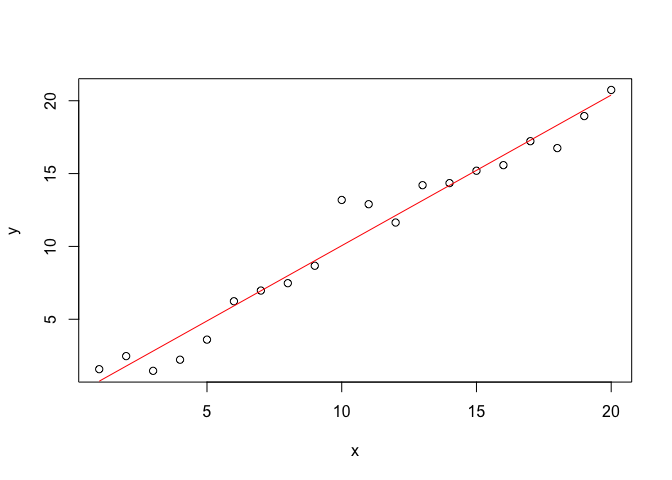
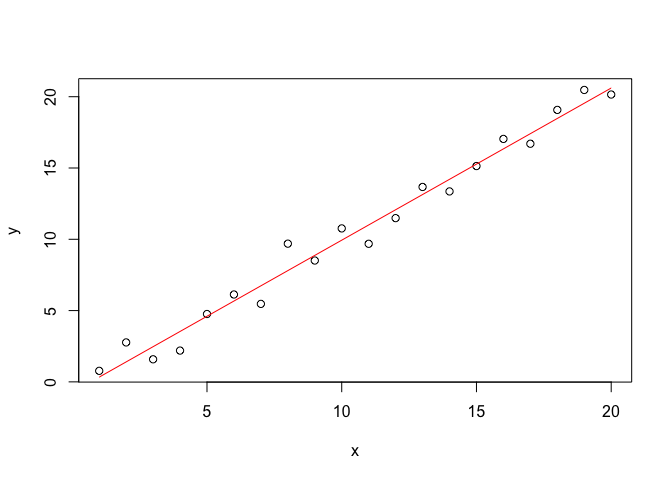
Correct typos

diff --git a/part_01-basic_interactions.md b/part_01-basic_interactions.md
@@ -29,8 +29,8 @@ execute them by yourself. Beware that R is a case-sensitive language; so
 `A` and `a` are different symbols.
 
 For the sake of reproducibility, some chunks are directly followed by
-the output you should obtain on your machine. In this case, the lines
-are prefixed with a ‘\#\#’ mark.
+the output that you should obtain on your machine. In this case, the
+lines are prefixed with a ‘\#\#’ mark.
 
 > In R, the ‘\#’ sign serves as comment character and can appear nearly
 > anywhere in the code. Anything typed behind this sign will be
@@ -43,9 +43,9 @@ your keyboard. In RStudio, you can access your command history in the
 
 ## A Sample Session
 
-If you like, you can run the following chunk that will demonstrate one
-simple application of R: Fitting a linear regression model to some noisy
-data.
+To break the ice, you can run the following chunk that will demonstrate
+one simple application of R: Fitting a linear regression model to some
+noisy data.
 
 ``` r
 # create a “list” of values from 1 to 20
@@ -74,18 +74,18 @@ summary(r)
     ## 
     ## Residuals:
     ##      Min       1Q   Median       3Q      Max 
-    ## -1.62784 -0.55062 -0.04571  0.43422  3.13560 
+    ## -1.33987 -0.74106  0.01089  0.62442  1.89050 
     ## 
     ## Coefficients:
     ##             Estimate Std. Error t value Pr(>|t|)    
-    ## (Intercept) -0.28409    0.55261  -0.514    0.613    
-    ## x            1.03371    0.04613  22.408 1.34e-14 ***
+    ## (Intercept) -0.73455    0.44330  -1.657    0.115    
+    ## x            1.06717    0.03701  28.837   <2e-16 ***
     ## ---
     ## Signif. codes:  0 '***' 0.001 '**' 0.01 '*' 0.05 '.' 0.1 ' ' 1
     ## 
-    ## Residual standard error: 1.19 on 18 degrees of freedom
-    ## Multiple R-squared:  0.9654, Adjusted R-squared:  0.9635 
-    ## F-statistic: 502.1 on 1 and 18 DF,  p-value: 1.342e-14
+    ## Residual standard error: 0.9543 on 18 degrees of freedom
+    ## Multiple R-squared:  0.9788, Adjusted R-squared:  0.9776 
+    ## F-statistic: 831.6 on 1 and 18 DF,  p-value: < 2.2e-16
 
 ``` r
 # clean up
@@ -121,13 +121,13 @@ y <- 2 # RHS is assigned to LHS
 
 When expressions are typed, R will evaluate them and print the result
 (unless specifically made invisible). The result of an expression is
-however ‘lost’. Assignments on the other hand do not print to the
-console, but store the result to the current R environment (‘Global
-Environment’).
+however ‘lost’ for further usage. Assignments on the other hand do not
+print to the console, but either store the result in the current
+environment or modify an existing object.
 
 ### Expressions
 
-Although, expressions are not limited to mathematical expressions in a
+Although expressions are not limited to mathematical expressions in a
 colloquial sense, R comes with a lot of operators and functions to do
 anything from boolean to matrix algebra, over statistics and modelling.
 Thus, R can be used as a very fancy calculator.
@@ -154,9 +154,9 @@ Some of the arithmetic operators implemented in R include:
 (-8)^(1/3)
 ```
 
-There are many (a lot of\!) built-in functions for other mathemtatical
-operations including `abs(...)`, `floor(...)`, `round(...)`,
-`sqrt(...)`, `exp(...)`, `log(...)`, `sin(...)`, `cos(...)`, etc.
+Some of the built-in functions for other mathemtatical operations
+include `abs(...)`, `floor(...)`, `round(...)`, `sqrt(...)`, `exp(...)`,
+`log(...)`, `sin(...)`, `cos(...)`, etc.
 
 R follows the standard order of operations and groupings based on
 parentheses.
@@ -168,12 +168,11 @@ parentheses.
 
 ### Using a Pipe
 
-Within the `tidyverse` (or `magrittr`), there is also another way to
-specify the order in which expressions are evaluated. Namely, by
-*piping* the different operations in the very order they must be
-executed by R. The ‘pipe’ is designated by the `%>%` operator. This
-operator is so useful that it has its own key-binding in RStudio, which
-is Ctrl/Cmd + Shift + M.
+There is also another way to specify the order in which expressions are
+evaluated. Namely, by *piping* the different operations in the very
+order they must be executed by R. The ‘pipe’ is designated by the `%>%`
+operator. This operator is so useful that it has its own key-binding in
+RStudio, which is Ctrl/Cmd + Shift + M.
 
 We can obtain the same result as above with
 
@@ -221,8 +220,8 @@ except that
 > currently known objects and functions that start with the characters
 > you just typed, when you hit the ‘tab’ key.
 
-Although there is no restriction in the length of object names, in
-practice, you want your object names to be explicit and not too long.
+Although there is no restriction in length for object names, in
+practice, you want your names to be explicit and not too long.
 
 ``` r
 N_Avogrado = 6.022e23 # we cannot use NA as name!
@@ -259,9 +258,9 @@ ls()
 
 If a sequence of operations has to be repeatedly performed, it can be
 very effective to evoke this sequence of operations using a single
-command: A named function. By making its return value dependend on the
-arguments the function is called with, your code will gain enormously in
-power, convenience and elegance.
+command: A function. If you make the return value of the function
+dependend on the arguments that the function was called with, your code
+will gain enormously in power, convenience and elegance.
 
 A function is created with `function(...) {...}`. As every R object,
 functions can be assigned to a symbol for future reference. The
@@ -374,7 +373,8 @@ To install, e.g. the `magrittr` package from CRAN.
 install.packages("magrittr")
 ```
 
-To uninstall a package, use `remove.packages(...)`.
+To uninstall a package, use `remove.packages(...)`. You will rarely need
+this.
 
 To load a package into R’s memory, use
 
@@ -383,16 +383,20 @@ library("magrittr")
 ```
 
 All of the package’s function will now be known in the current R
-session. Their namespace has been attached to the search path of the
-current environment. To check the currently loaded namespaces, type
-`loadedNamespaces()`. To remove a namespace from the current session,
-type `unloadNamespace(...)` with the respective package name.
+session. More specifically, their ‘namespace’ has been attached to the
+search path of the current environment. To check the currently loaded
+namespaces, type `loadedNamespaces()`. To remove a namespace from the
+current session, type `unloadNamespace(...)` with the respective package
+name.
 
 If you intend to use only a single function from a package (and do not
-want to load the entire namespace), or if there are multiple functions
-with the same name from different packages in the current namespace, you
-must be more explicit and prefix the function call with the package name
-separated by `::`, e.g. `magrittr::divide_by(...)`.
+want to load the entire namespace), or if there are functions with the
+same name from different packages loaded, you must be more explicit and
+prefix the function call with the package name separated by `::`, e.g.
+`magrittr::divide_by(...)`.
+
+> When you load a package with conflicting names, R will print a warning
+> message.
 
 ### Getting Help on Functions and Other Objects
 
@@ -415,12 +419,12 @@ mol_to_abs
     ##   mol * 6.022e23 * prefix_meaning[[prefix]]
     ##   
     ## }
-    ## <bytecode: 0x7fd5d8eed6b8>
+    ## <bytecode: 0x7f981688d598>
 
-As this code can be sometimes rather enigmatic, each function comes with
-an extensive built-in documentation within R.
-
------
+Most R functions are written in R and therefore no different from
+user-defined functions. Sometimes however, just reading this code can be
+rather enigmatic. Therefore, each function comes with an extensive
+built-in documentation within R. Here is how you get there.
 
 *If you know the command’s name,* the following approach will open the
 appropriate documentation. As an example, examine the help for the
@@ -436,7 +440,7 @@ Typically, the help page includes the following sections:
 
   - *Description*, a brief summary,
   - *Usage*, showing all arguments (variables and parameters) along with
-    their default values, where `...` represents any abitrary number of
+    their default values, where `...` represents any arbitrary number of
     comma-separated (unquoted) arguments,
   - *Arguments*, explicitly describing each argument and the data type
     expected,
@@ -446,10 +450,8 @@ Typically, the help page includes the following sections:
   - *References* for the algorithms implemented,
   - *See Also*, listing similar functions for different data types, or
     shortcuts for commonly used operations,
-  - *Examples* with illustrative code that helps better understanding
-    the functions behavior.
-
------
+  - *Examples* with illustrative code that helps the better
+    understanding the functions behavior.
 
 *If you do not know the exact name of the function you are looking for,*
 but you know what the function *should* be able to do for you, the
@@ -474,7 +476,7 @@ In this section you should have learned
 
 Quick questions.
 
-1.  What do `#`, `%>%`, `%%` and `->` mean?
+1.  What do `#`, `%>%`, and `->` mean?
 2.  How do you type `{`, `}`, `[`, and `]` on your keyboard?
 3.  Check out the documentation for `rm`. Can you figure out what
     `rm(list = ls())` will do? Do it\!

diff --git a/README.md b/README.md
@@ -1,10 +1,10 @@
 ## Prerequisites
 
-Before we can get started, you need to install R and famliarize with some concepts.
+Before we can get started, please work through the next sections to install R and to familiarize with some concepts in R.
 
 ### Installing R 
 
-Install the latest version of **R** from [https://cran.rstudio.com/](https://cran.rstudio.com). Most of the code will probably run also on older versions of R. Beware that you will need to re-install packages after updating R to a newer version.
+Install the latest version of **R** from [https://cran.rstudio.com/](https://cran.rstudio.com). Most of the code will probably run also with older versions of R. Beware that once you installed R, you will need to re-install packages after updating R to a newer version.
 
 We will be using an Integrated Development Environment (IDE) called **RStudio** to interact with R. However, there is nothing to prohibit using R at the command line or in some other interface. You can download RStudio for free from [https://rstudio.com/products/rstudio/download/](https://rstudio.com/products/rstudio/download/#download).
 
@@ -18,17 +18,17 @@ install.packages("magrittr")
 install.packages("data.table")
 ```
 
-_Note to macOS users:_ To use `data.table`’s parallel processing capability, you will need a version of OpenMP to be installed on your machine. Consider to follow the instructions on [https://github.com/Rdatatable/data.table/](https://github.com/Rdatatable/data.table/wiki/Installation#openmp-enabled-compiler-for-mac).
+_Note to macOS users:_ To use `data.table`’s parallel processing capability, you will need a version of OpenMP to be installed on your machine. Consider to follow the instructions on [https://github.com/Rdatatable/data.table/](https://github.com/Rdatatable/data.table/wiki/Installation#openmp-enabled-compiler-for-mac). For this workshop, this is optional.
 
 ### Getting Started
 
-Please check out the following sections to grasp an idea of some concepts in R and to familiarize with its usage. You do not need to understand everything and some things might be puzzling right now, but this will soon disappear.
+The following introductions are intended to give you some ‘background’ of R. You do not need to understand every line of code or recall everything from the text; some things might seem puzzling right now, but this will soon disappear.
 
-At the end of each section, you will find some questions for self-study.
+At the end of each part, you will find some questions for self-study.
 
 [Introductory Part 1](part_01-basic_interactions.md) will explore how to interact with R.
 
-
+[Introductory Part 2](part_02-data_structures.md) will introduce some common data types in R.
 
 
 ## Syllabus
